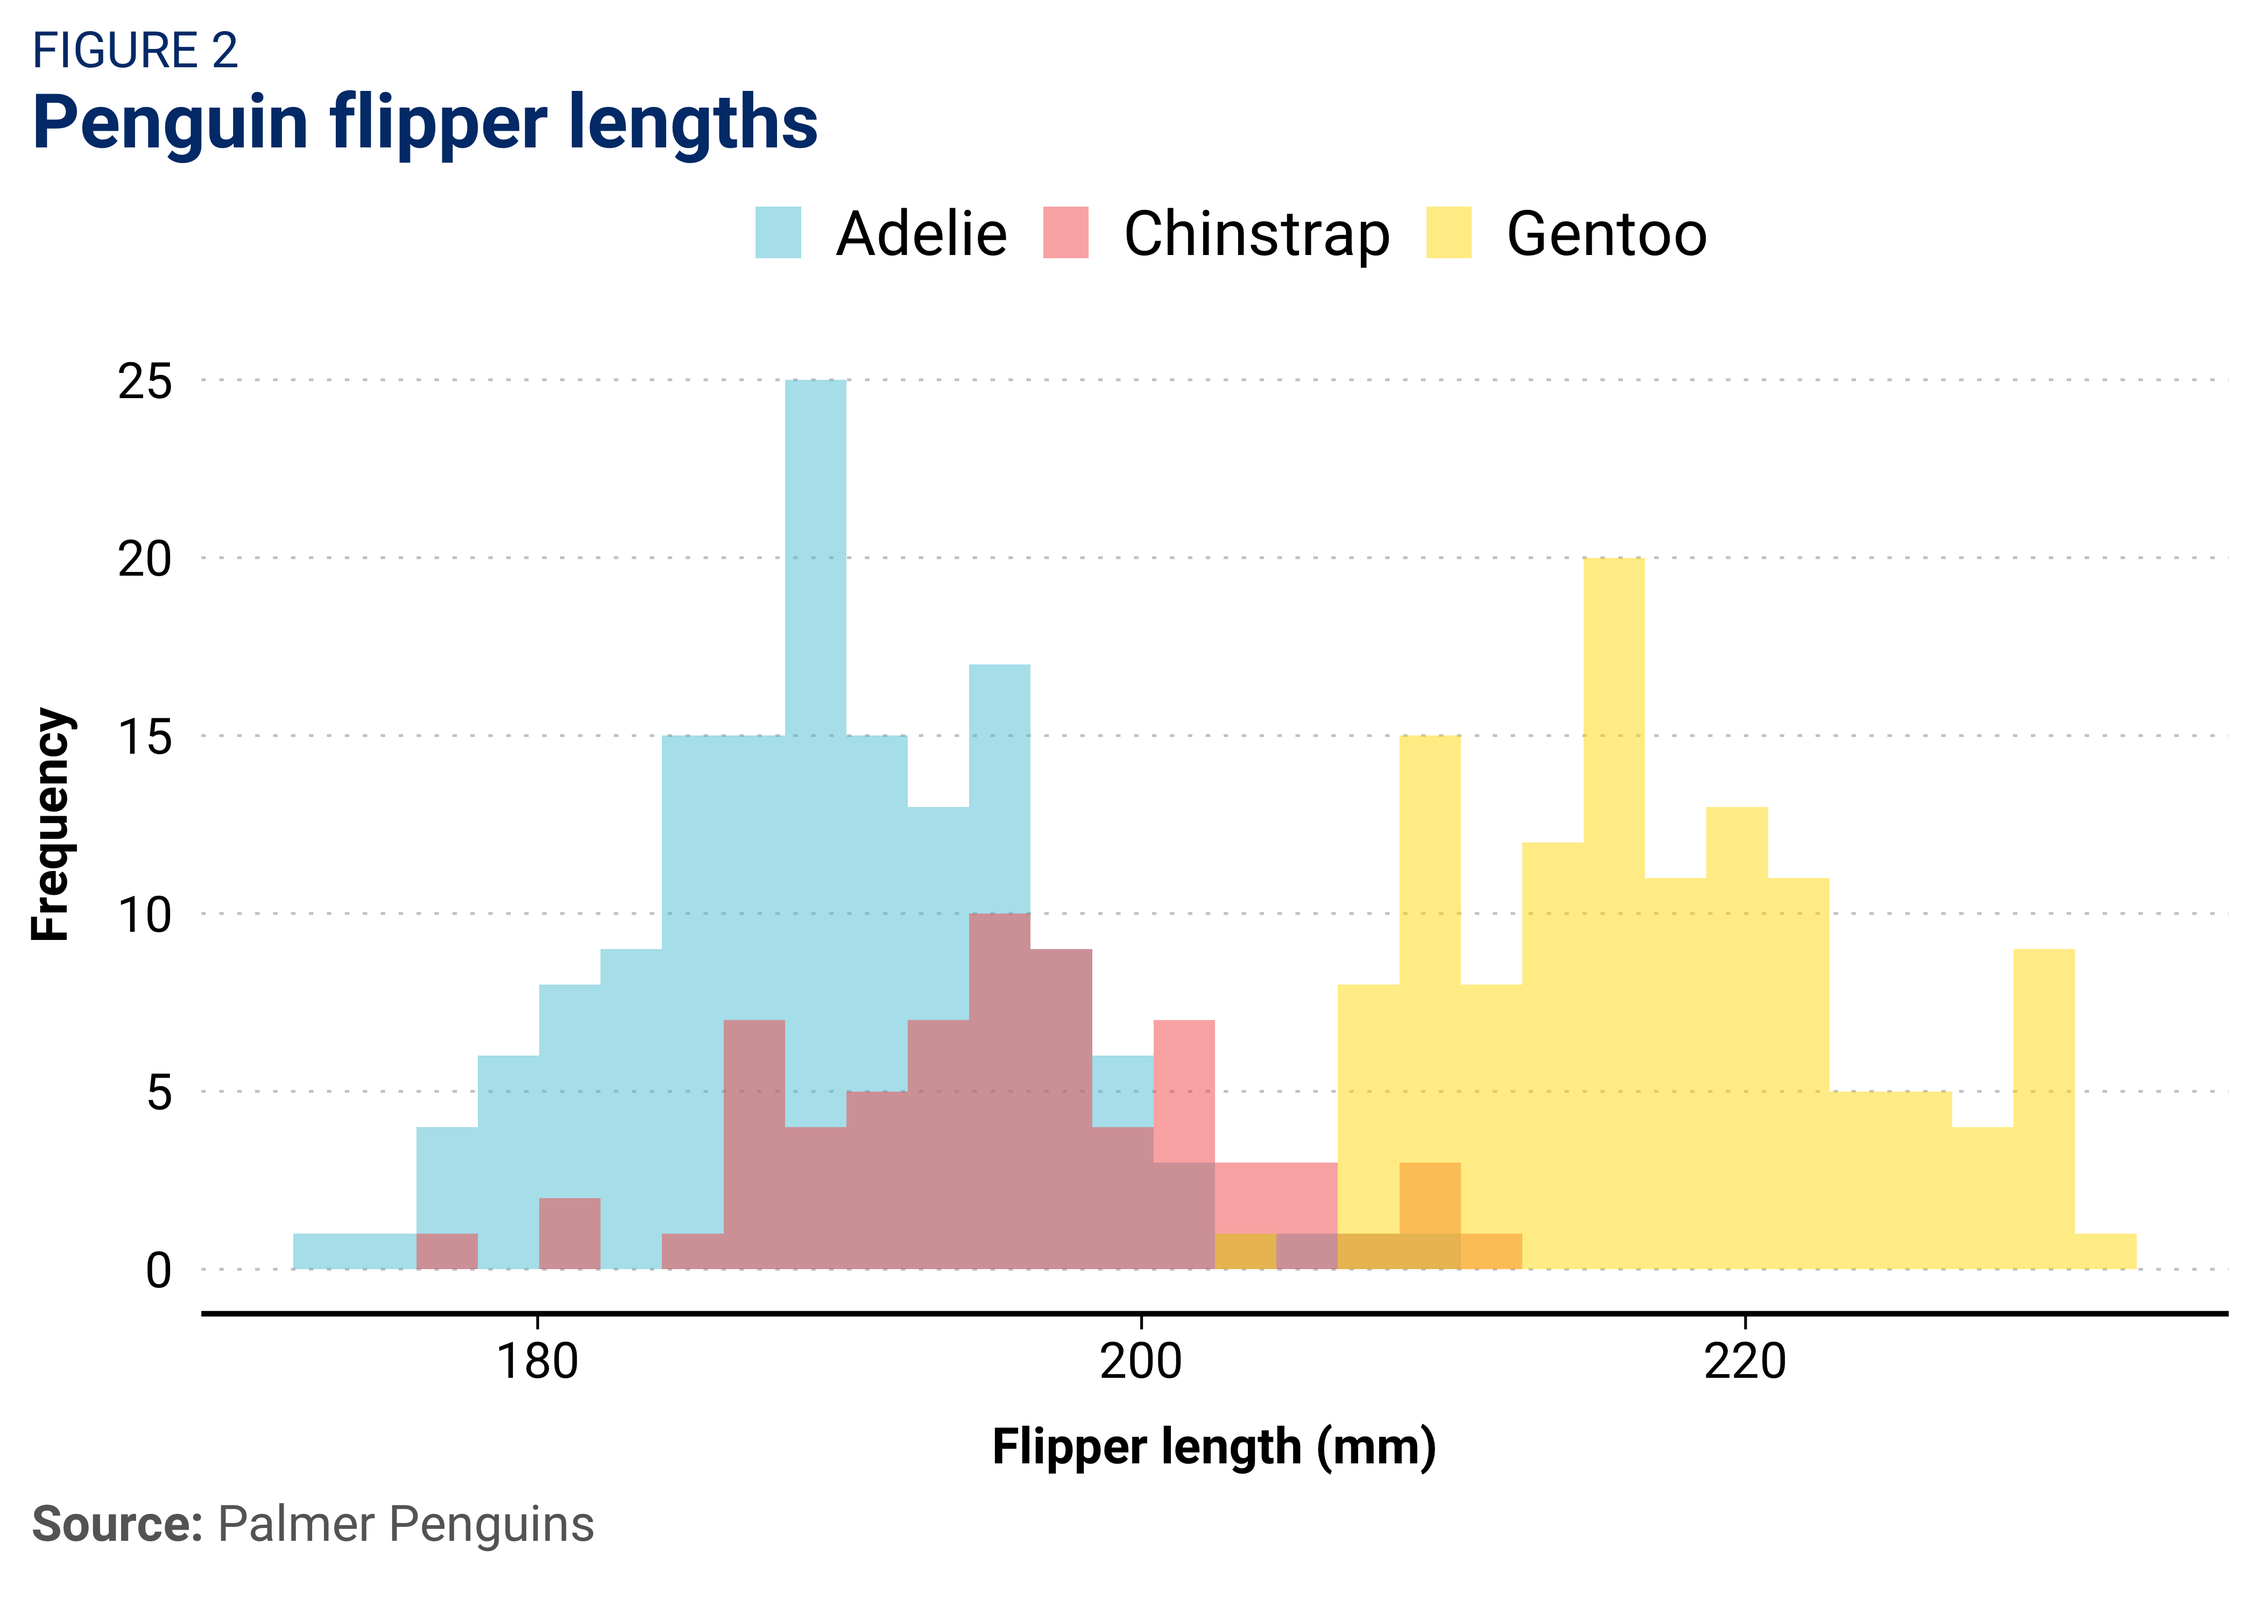
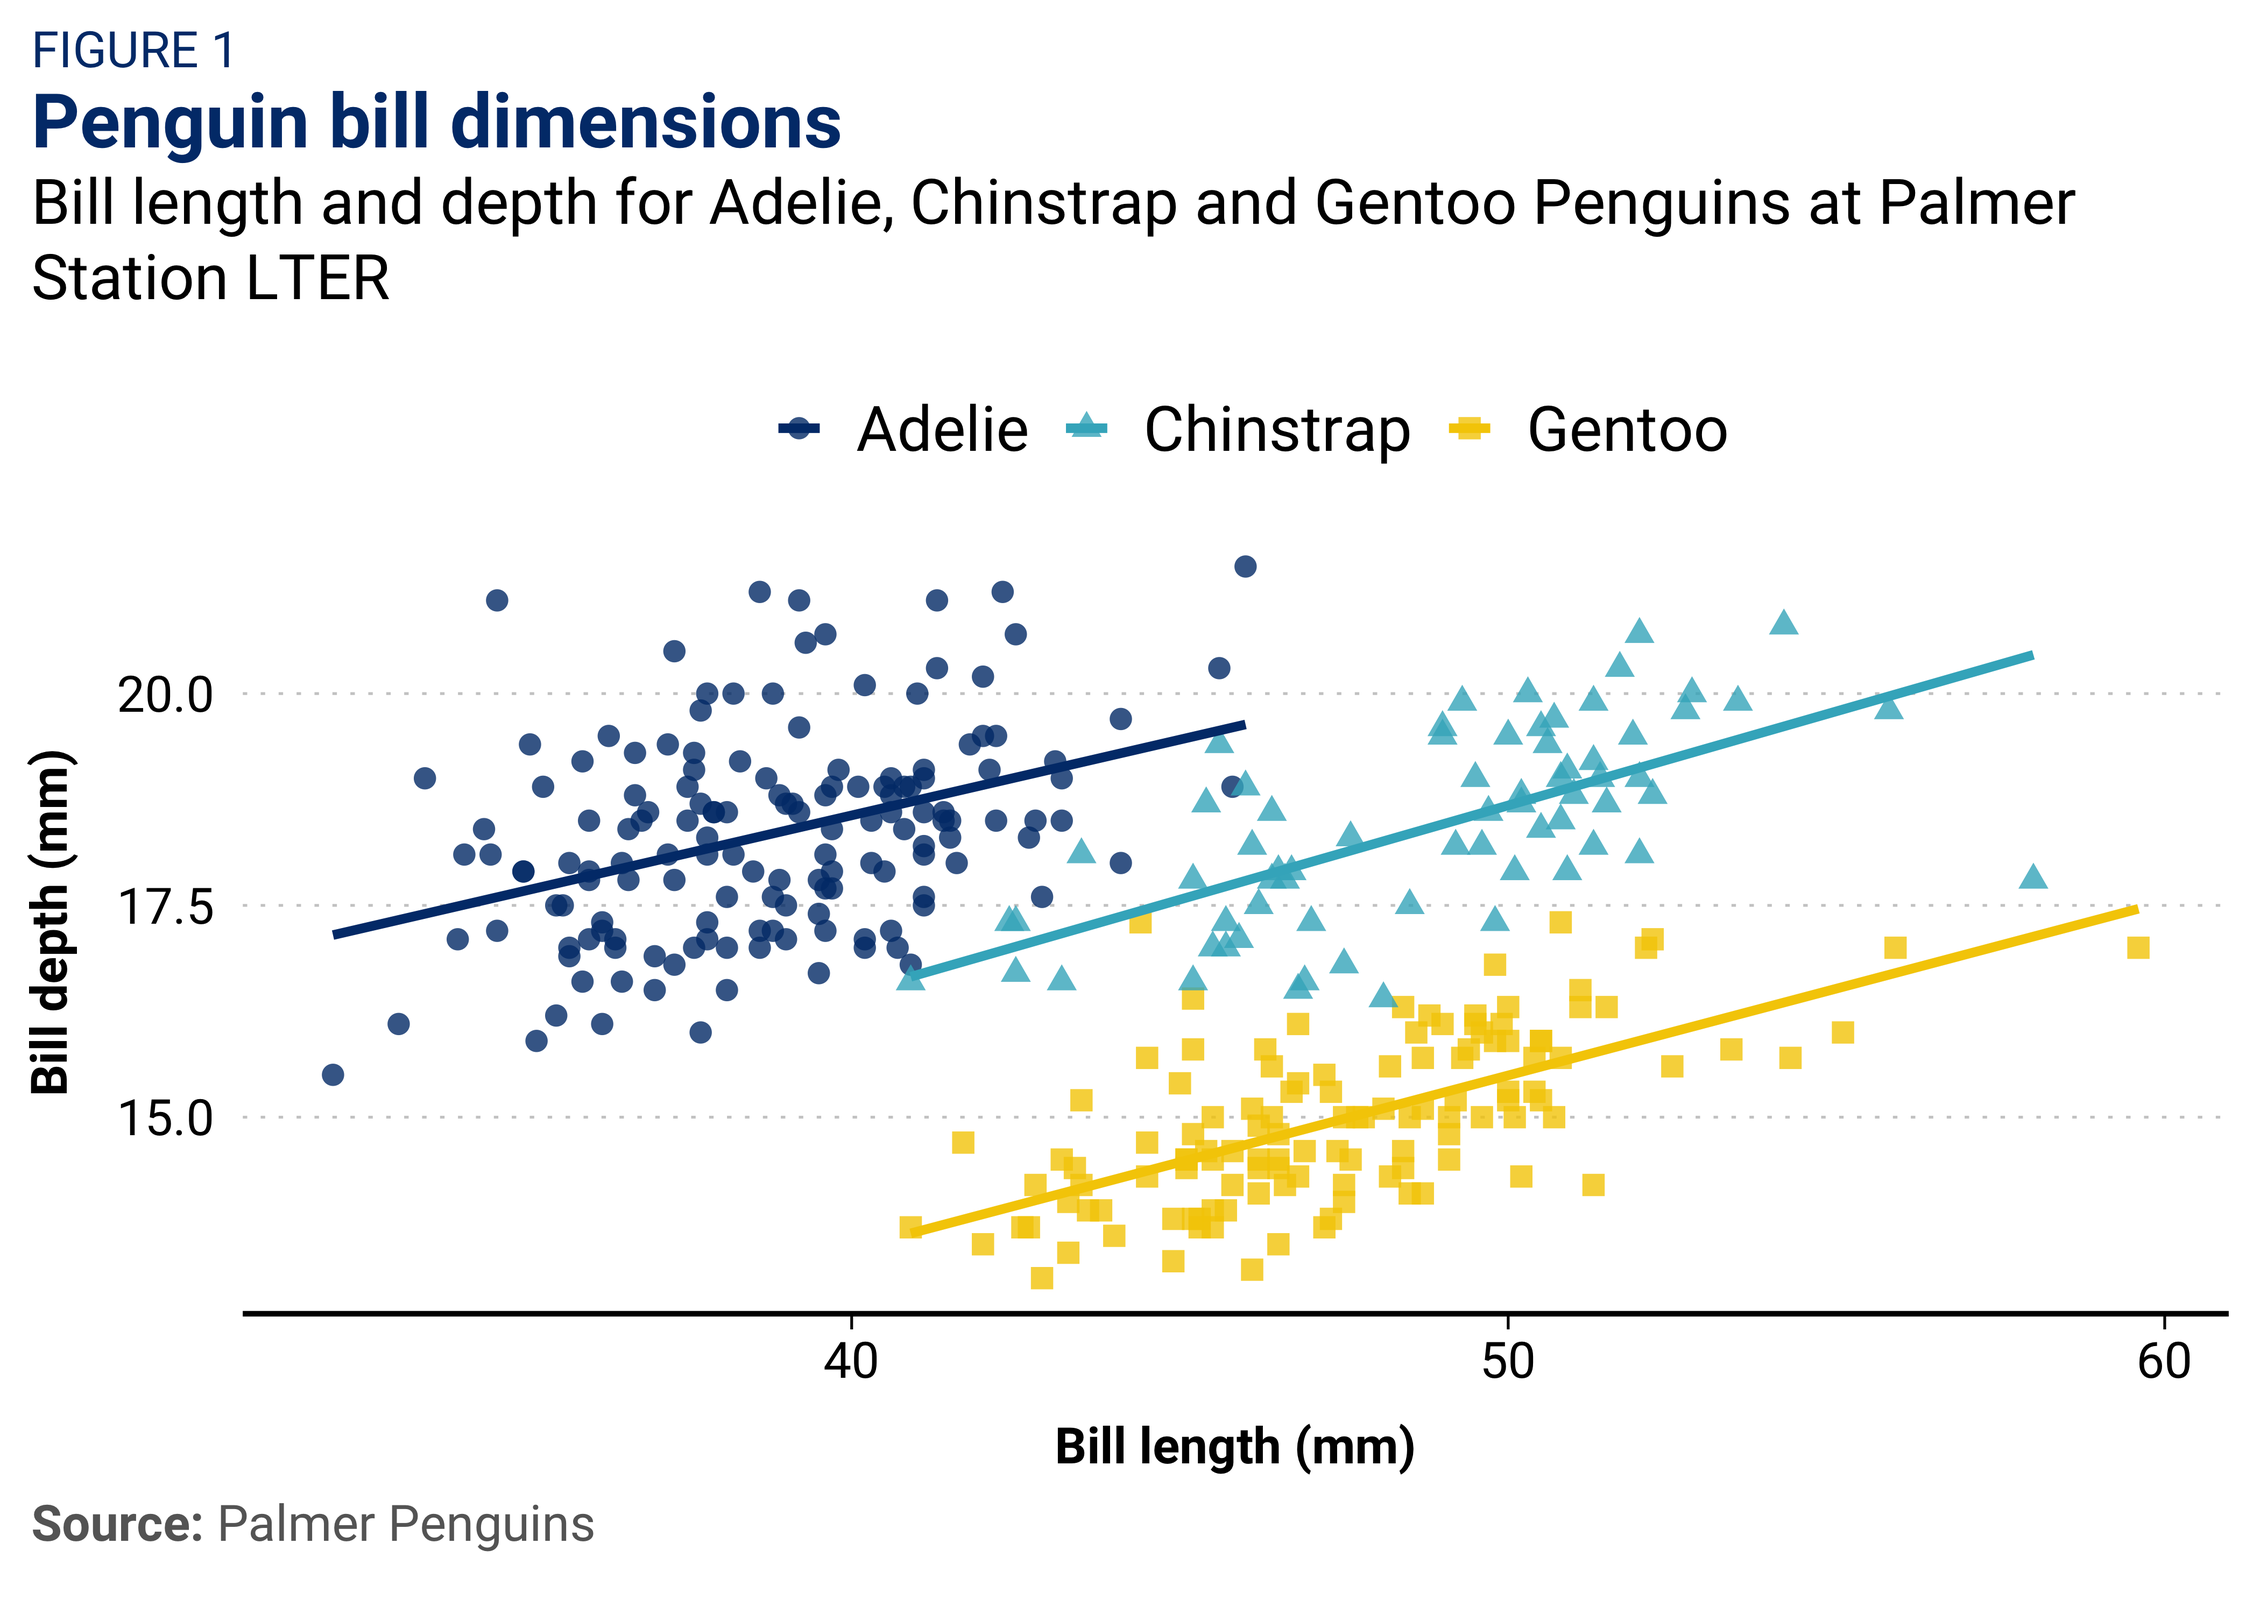
Updated README

diff --git a/README.md b/README.md
@@ -11,9 +11,12 @@ helper functions.
 
 ## Installation
 
+In order to install packages from GitHub you first need to install
+`remotes`.
+
 ``` r
-install.packages("devtools")
-devtools::install_github("BrookingsInstitution/ggbrookings", build_vignettes = TRUE)
+install.packages("remotes")
+remotes::install_github("BrookingsInstitution/ggbrookings", build_vignettes = TRUE)
 ```
 
 **Note:** If you are on a Brookings laptop, you may need to change your
@@ -22,6 +25,8 @@ timezone for `devtools` to work. This can be done by running:
 ``` r
 Sys.setenv(TZ = 'UTC')
 ```
+
+## Fonts
 
 **Roboto** is Brooking’s main font. You will need to install it by
 visiting [Google
@@ -34,6 +39,15 @@ and registered:
 
 ``` r
 import_roboto()
+```
+
+If you run into any problems while installing fonts on a Windows
+computer try the following solution from this
+[issue](https://github.com/wch/extrafont/issues/88):
+
+``` r
+remove.packages("Rttf2pt1")
+remotes::install_version("Rttf2pt1", version = "1.3.8") 
 ```
 
 ## Usage
@@ -58,7 +72,13 @@ functions:
 
 ## Examples
 
+I highly recommend that you install librarian by running
+`install.packages('librarian')` as it lets you quickly install, update,
+and attach packages from CRAN, GitHub, and Bioconductor in one function
+call.
+
 ``` r
+# install.packages('librarian') # I highly recommend that you load yo
 # Load the necessary libraries
 librarian::shelf(tidyverse, palmerpenguins, ggbrookings)
 ```
@@ -90,7 +110,7 @@ In order to match the Brookings style in scatterplots you should set
        shape = "Penguin species") 
 ```
 
-<img src="man/figures/unnamed-chunk-6-1.png" width="2100" style="display: block; margin: auto;" />
+<img src="man/figures/unnamed-chunk-7-1.png" width="2100" style="display: block; margin: auto;" />
 
 ### Histogram
 
@@ -106,10 +126,12 @@ In order to match the Brookings style in scatterplots you should set
        y = "Frequency",
        title = "Penguin flipper lengths",
        caption = '**Source:** Palmer Penguins',
-       tag = 'FIGURE 2')
+       tag = 'FIGURE 2') +
+    scale_x_continuous(expand = expansion()) +
+    scale_y_continuous(expand = expansion())
 ```
 
-<img src="man/figures/unnamed-chunk-7-1.png" width="2100" style="display: block; margin: auto;" />
+<img src="man/figures/unnamed-chunk-8-1.png" width="2100" style="display: block; margin: auto;" />
 
 You can change the size of your text proportionally by setting
 `theme_brookings(base_size = your_size)` as shown below:
@@ -131,10 +153,12 @@ You can change the size of your text proportionally by setting
        x = "Flipper length (mm)",
        y = "Body mass (g)",
        color = "Penguin sex") +
-  facet_wrap(. ~ species, nrow = 3, ncol = 1)
+  facet_wrap(. ~ species, nrow = 3, ncol = 1) +
+        scale_x_continuous(expand = expansion()) +
+    scale_y_continuous(expand = expansion())
 ```
 
-<img src="man/figures/unnamed-chunk-8-1.png" width="2100" style="display: block; margin: auto;" />
+<img src="man/figures/unnamed-chunk-9-1.png" width="2100" style="display: block; margin: auto;" />
 
 ### Line plot
 
@@ -142,7 +166,7 @@ In order to match the Brookings style in line plots you should set
 `geom_line(size = 1.5)` as below:
 
 ``` r
-librarian::shelf(gapminder, ggtext, glue)
+librarian::shelf(gapminder)
 
 gapminder_filtered <-
   gapminder %>% 
@@ -165,8 +189,6 @@ gapminder_filtered %>%
                      limits = c(0, 15000), breaks = seq(0, 15000, 2500),
                      expand = expansion(0)) +
   scale_color_brookings() +
-  
-   
   labs(title = 'Economic growth in South America',
        subtitle = 'GDP per capita, 1952-2007',
        caption = '**Source:** Gapminder',
@@ -175,4 +197,4 @@ gapminder_filtered %>%
        y = NULL) 
 ```
 
-<img src="man/figures/unnamed-chunk-9-1.png" width="2100" style="display: block; margin: auto;" />
+<img src="man/figures/unnamed-chunk-10-1.png" width="2100" style="display: block; margin: auto;" />
